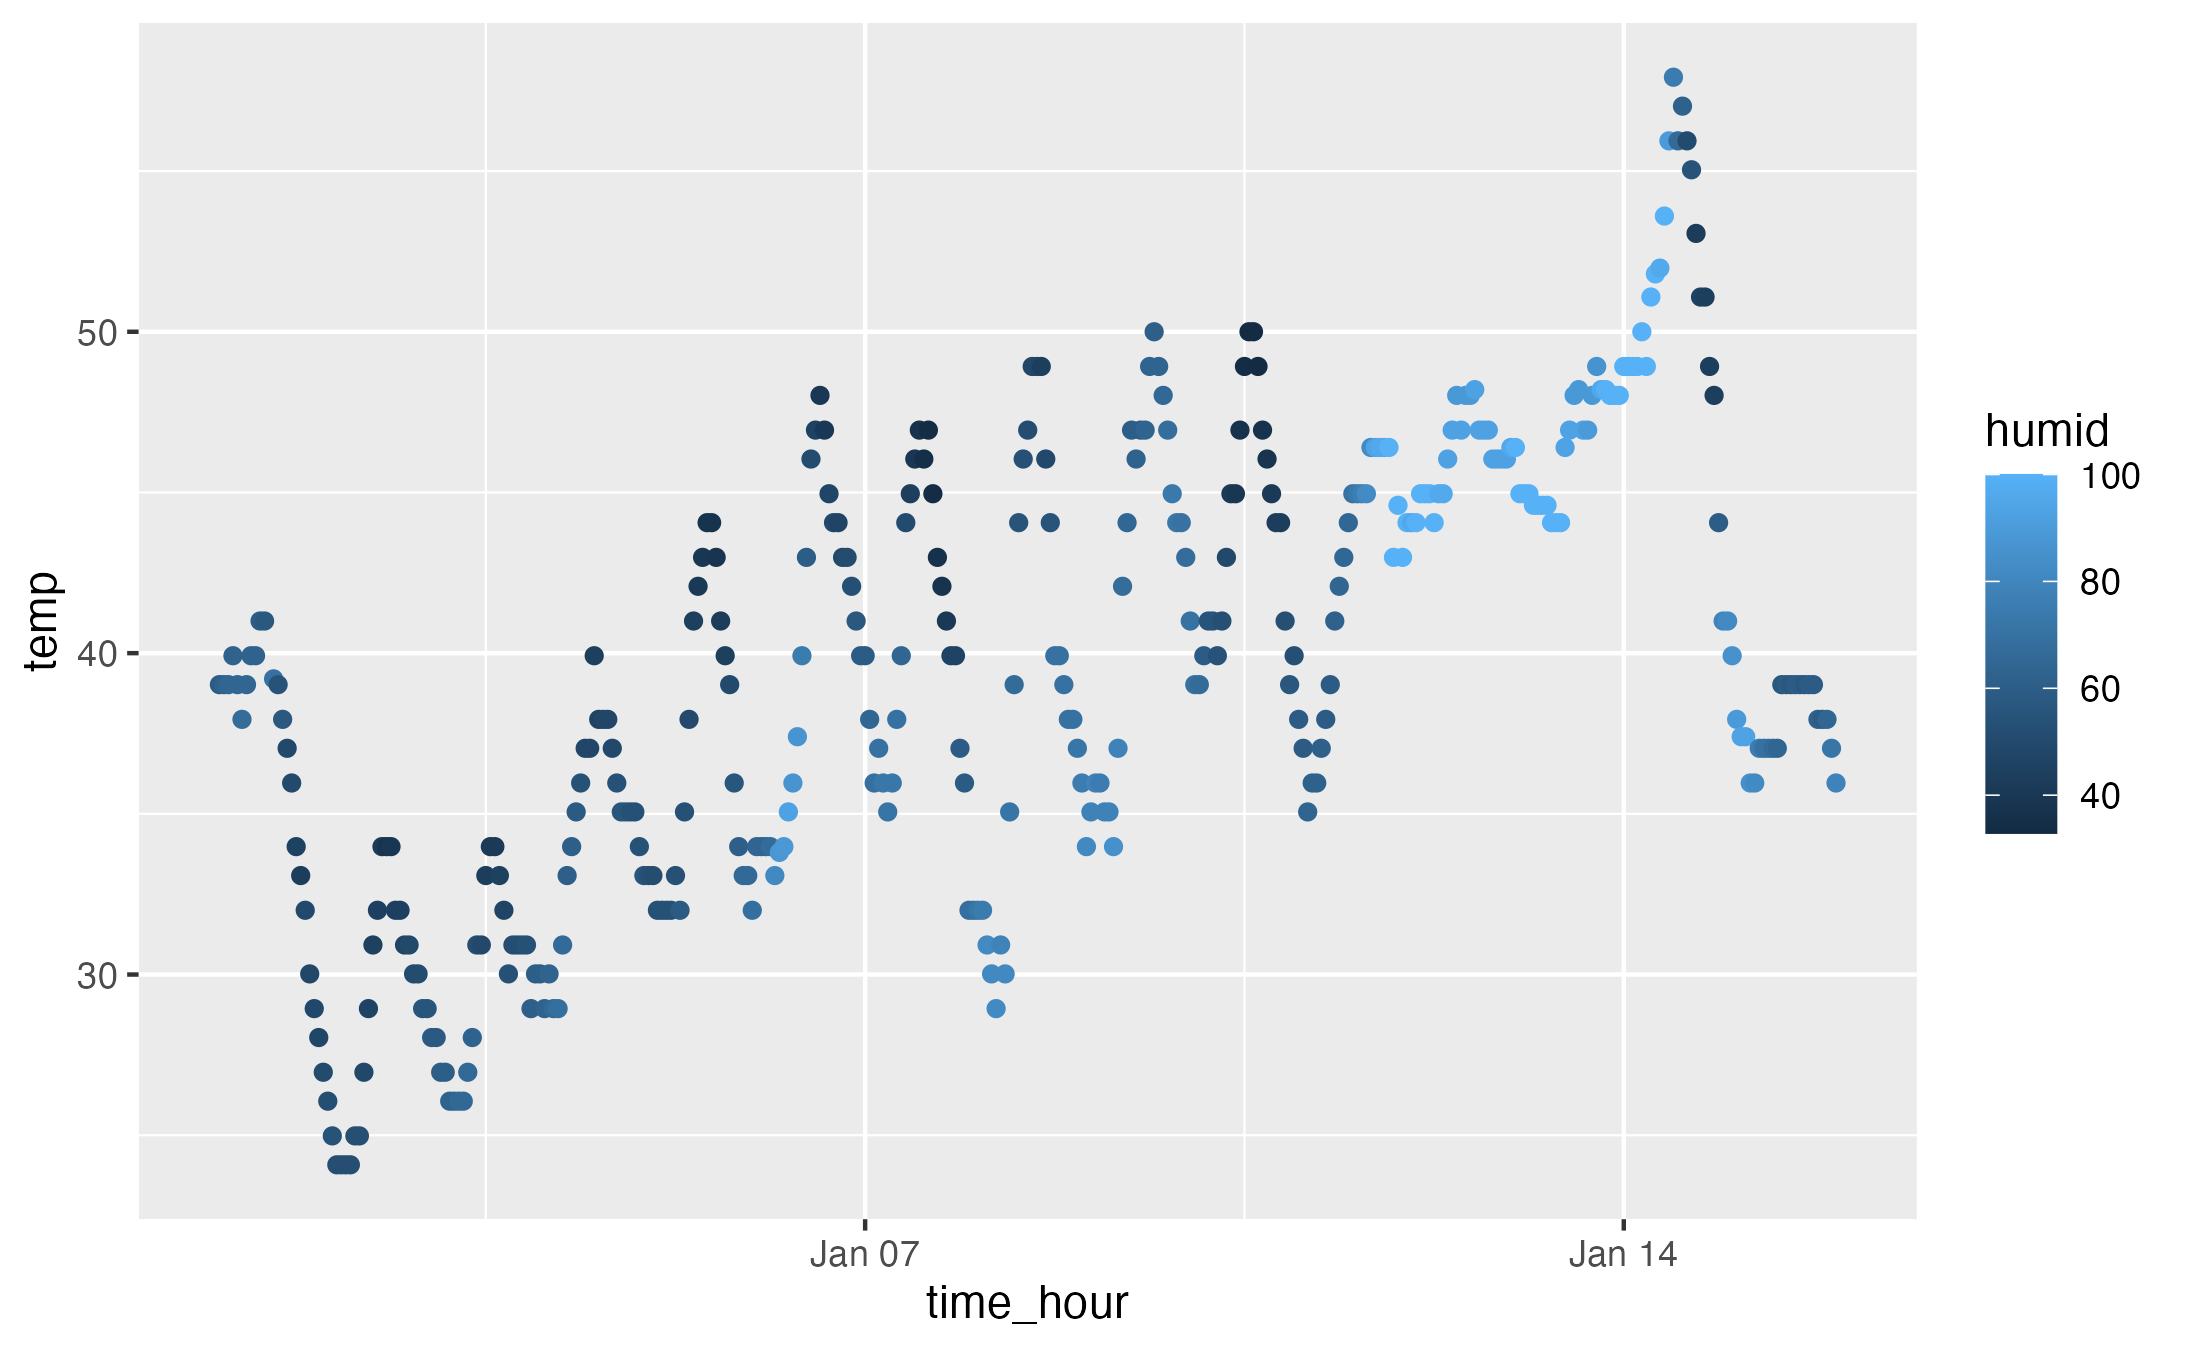
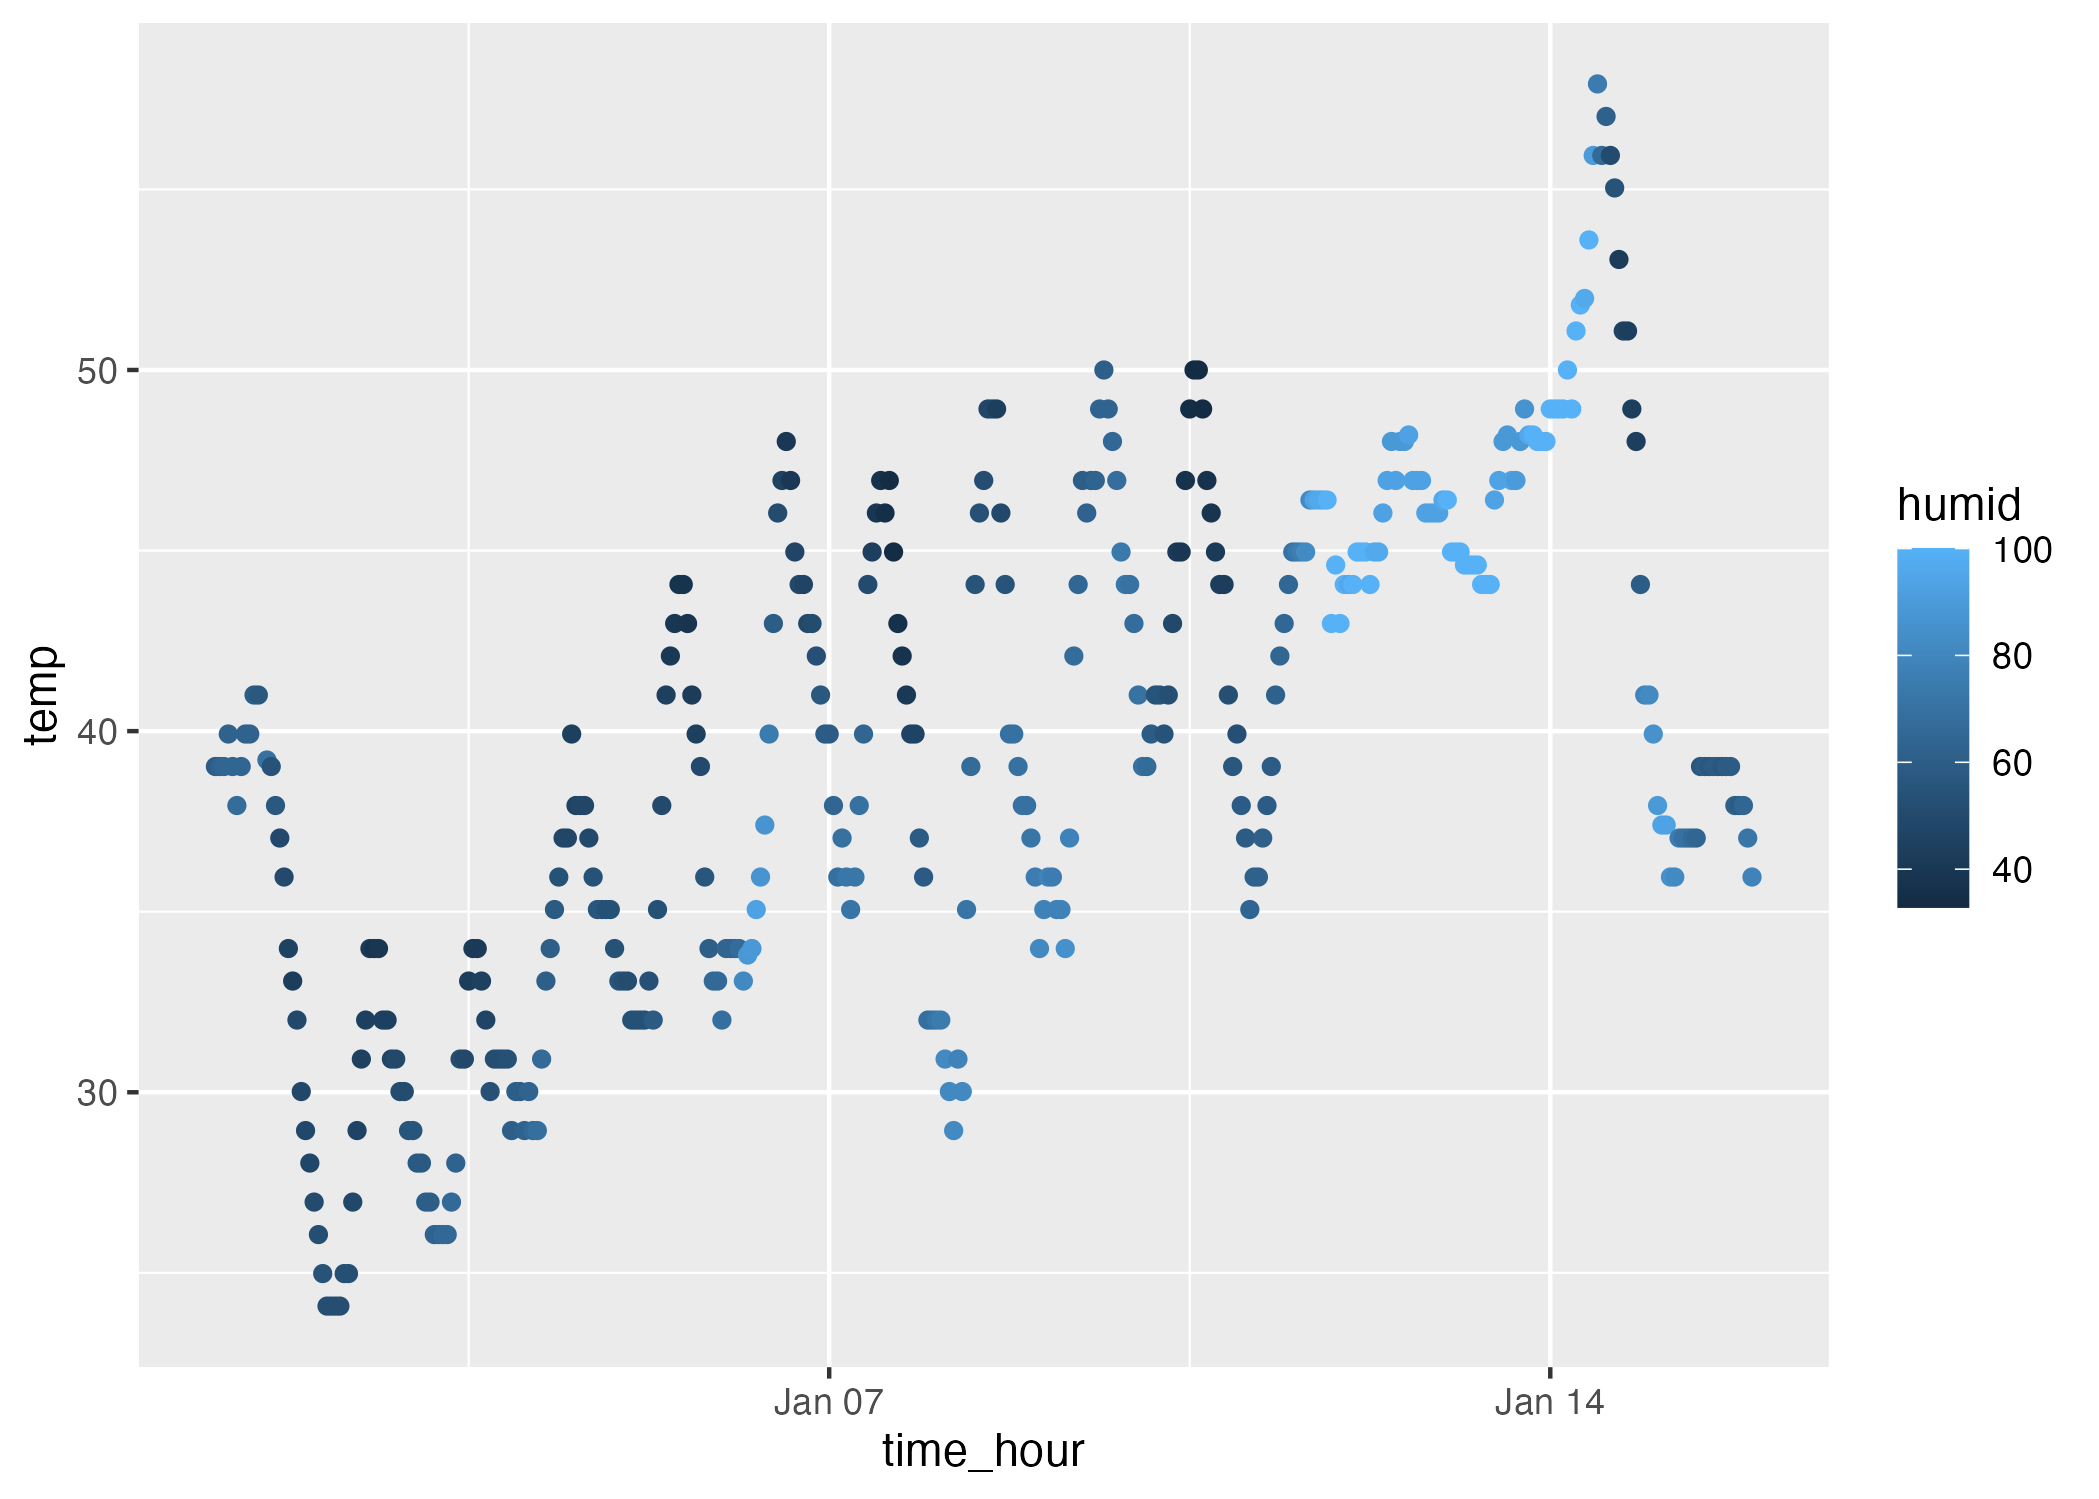
problem 2 and md output.

diff --git a/p8105_hw1_yy3662.md b/p8105_hw1_yy3662.md
@@ -1,0 +1,184 @@
+p8105_hw1_yy3662
+================
+Yunyi Yang
+2025-09-17
+
+## Problem 1
+
+``` r
+library(tidyverse)
+```
+
+    ## ── Attaching core tidyverse packages ──────────────────────── tidyverse 2.0.0 ──
+    ## ✔ dplyr     1.1.4     ✔ readr     2.1.5
+    ## ✔ forcats   1.0.0     ✔ stringr   1.5.1
+    ## ✔ ggplot2   3.5.2     ✔ tibble    3.3.0
+    ## ✔ lubridate 1.9.4     ✔ tidyr     1.3.1
+    ## ✔ purrr     1.1.0     
+    ## ── Conflicts ────────────────────────────────────────── tidyverse_conflicts() ──
+    ## ✖ dplyr::filter() masks stats::filter()
+    ## ✖ dplyr::lag()    masks stats::lag()
+    ## ℹ Use the conflicted package (<http://conflicted.r-lib.org/>) to force all conflicts to become errors
+
+``` r
+library(moderndive)
+library(skimr)
+data("early_january_weather")
+skimr::skim(early_january_weather)
+```
+
+|                                                  |                       |
+|:-------------------------------------------------|:----------------------|
+| Name                                             | early_january_weather |
+| Number of rows                                   | 358                   |
+| Number of columns                                | 15                    |
+| \_\_\_\_\_\_\_\_\_\_\_\_\_\_\_\_\_\_\_\_\_\_\_   |                       |
+| Column type frequency:                           |                       |
+| character                                        | 1                     |
+| numeric                                          | 13                    |
+| POSIXct                                          | 1                     |
+| \_\_\_\_\_\_\_\_\_\_\_\_\_\_\_\_\_\_\_\_\_\_\_\_ |                       |
+| Group variables                                  | None                  |
+
+Data summary
+
+**Variable type: character**
+
+| skim_variable | n_missing | complete_rate | min | max | empty | n_unique | whitespace |
+|:--------------|----------:|--------------:|----:|----:|------:|---------:|-----------:|
+| origin        |         0 |             1 |   3 |   3 |     0 |        1 |          0 |
+
+**Variable type: numeric**
+
+| skim_variable | n_missing | complete_rate | mean | sd | p0 | p25 | p50 | p75 | p100 | hist |
+|:---|---:|---:|---:|---:|---:|---:|---:|---:|---:|:---|
+| year | 0 | 1.00 | 2013.00 | 0.00 | 2013.00 | 2013.00 | 2013.00 | 2013.00 | 2013.00 | ▁▁▇▁▁ |
+| month | 0 | 1.00 | 1.00 | 0.00 | 1.00 | 1.00 | 1.00 | 1.00 | 1.00 | ▁▁▇▁▁ |
+| day | 0 | 1.00 | 8.04 | 4.31 | 1.00 | 4.00 | 8.00 | 12.00 | 15.00 | ▇▇▇▇▇ |
+| hour | 0 | 1.00 | 11.53 | 6.92 | 0.00 | 6.00 | 11.50 | 17.75 | 23.00 | ▇▇▆▇▇ |
+| temp | 0 | 1.00 | 39.58 | 7.06 | 24.08 | 33.98 | 39.02 | 44.96 | 57.92 | ▃▇▇▇▁ |
+| dewp | 0 | 1.00 | 28.06 | 10.73 | 8.96 | 19.94 | 26.06 | 35.06 | 53.06 | ▃▇▆▂▃ |
+| humid | 0 | 1.00 | 65.48 | 18.95 | 32.86 | 51.34 | 61.67 | 78.68 | 100.00 | ▃▇▆▂▅ |
+| wind_dir | 5 | 0.99 | 208.19 | 115.58 | 0.00 | 140.00 | 240.00 | 290.00 | 360.00 | ▅▁▂▇▆ |
+| wind_speed | 0 | 1.00 | 8.23 | 4.61 | 0.00 | 5.75 | 8.06 | 11.51 | 24.17 | ▅▇▆▂▁ |
+| wind_gust | 308 | 0.14 | 22.53 | 3.63 | 16.11 | 19.56 | 21.86 | 25.32 | 31.07 | ▅▇▃▇▁ |
+| precip | 0 | 1.00 | 0.00 | 0.01 | 0.00 | 0.00 | 0.00 | 0.00 | 0.19 | ▇▁▁▁▁ |
+| pressure | 38 | 0.89 | 1022.52 | 5.57 | 1010.80 | 1018.30 | 1022.05 | 1027.23 | 1034.40 | ▃▇▇▇▃ |
+| visib | 0 | 1.00 | 8.52 | 3.00 | 0.12 | 9.00 | 10.00 | 10.00 | 10.00 | ▁▁▁▁▇ |
+
+**Variable type: POSIXct**
+
+| skim_variable | n_missing | complete_rate | min | max | median | n_unique |
+|:---|---:|---:|:---|:---|:---|---:|
+| time_hour | 0 | 1 | 2013-01-01 01:00:00 | 2013-01-15 23:00:00 | 2013-01-08 12:30:00 | 358 |
+
+Thsi data set includes `origin`, which means waether station, `year`
+`month` `day` `hour` means time of recording, `temp` `dewp` means
+temperature and dewpoint in F, `humid` means relative humidity,
+`wind_dir` `wind_speed` `wind_gust` means wind direction (in degrees)m
+speed and gust speed (in mph), `precip` means precipitation, in inches,
+`pressure` means sea level pressure in millibars, `visib` means
+visibility in miles, `time_hour` means date and hour of the recording as
+a POSIXct date.
+
+The data is 358\*15.
+
+The mean temperature is 39.58212 based on
+mean(early_january_weather\$temp).
+
+``` r
+library(ggplot2)
+ggplot(data = early_january_weather, aes(x = time_hour, y = temp, color = humid)) + geom_point()
+```
+
+![](p8105_hw1_yy3662_files/figure-gfm/unnamed-chunk-2-1.png)<!-- -->
+
+``` r
+ggsave("plot.png")
+```
+
+    ## Saving 7 x 5 in image
+
+This plot has obvious rise and fall as the changing of time. At the same
+time, the higher humid level always happens in increasing process.
+
+## Problem 2
+
+``` r
+col1 <- rnorm(10)
+col2 <- as.logical(col1 > 0)
+col3 <- c("a", "b", "c", "d", "e", "f", "g", "h", "i", "j")
+col4 <- factor(c("1", "2", "3", "3", "2", "1", "1", "2", "3", "3"))
+dataframe <- tibble(
+  col1,
+  col2,
+  col3,
+  col4
+)
+dataframe
+```
+
+    ## # A tibble: 10 × 4
+    ##       col1 col2  col3  col4 
+    ##      <dbl> <lgl> <chr> <fct>
+    ##  1  1.38   TRUE  a     1    
+    ##  2 -0.0122 FALSE b     2    
+    ##  3 -0.572  FALSE c     3    
+    ##  4  0.368  TRUE  d     3    
+    ##  5 -0.357  FALSE e     2    
+    ##  6 -1.25   FALSE f     1    
+    ##  7 -0.568  FALSE g     1    
+    ##  8  0.358  TRUE  h     2    
+    ##  9  0.343  TRUE  i     3    
+    ## 10 -1.30   FALSE j     3
+
+``` r
+mean(pull(dataframe, 1))
+```
+
+    ## [1] -0.161249
+
+``` r
+mean(pull(dataframe, 2))
+```
+
+    ## [1] 0.4
+
+``` r
+mean(pull(dataframe, 3))
+```
+
+    ## Warning in mean.default(pull(dataframe, 3)): argument is not numeric or
+    ## logical: returning NA
+
+    ## [1] NA
+
+``` r
+mean(pull(dataframe, 4))
+```
+
+    ## Warning in mean.default(pull(dataframe, 4)): argument is not numeric or
+    ## logical: returning NA
+
+    ## [1] NA
+
+``` r
+newcol2 <- as.numeric(col2)
+newcol3 <- as.numeric(col3)
+```
+
+    ## Warning: NAs introduced by coercion
+
+``` r
+newcol4 <- as.numeric(col4)
+```
+
+For mean, it works for samples from N(0,1) and logical variable, and it
+doesn’t work for character vectors and factor vectors. After I doing
+as.numeric, these three columns become numeric data, and the values of
+character vectors become NA in new numeric data because character
+vectors could contain letters and other format of data, not only
+including numeric numbers, so it doesn’t make sense to convert character
+vector to numeric data. It is helpful for explaining the NA outcome when
+I do the mean for character vector because the informations that the
+character vector contain is not reasonable for mean function.
